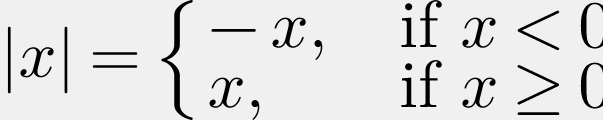
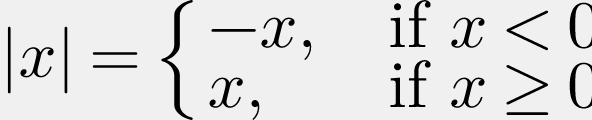
Fix issue #213

diff --git a/CSharpMath.Core.Tests/Display/TypesetterTests.cs b/CSharpMath.Core.Tests/Display/TypesetterTests.cs
@@ -16,11 +16,11 @@ namespace CSharpMath.Core.Tests {
     private static readonly TFont _font = new TFont(20);
     private static readonly TypesettingContext<TFont, TGlyph> _context = BackEnd.TestTypesettingContext.Instance;
 
-    System.Action<IDisplay<TFont, TGlyph>?> TestList(int rangeMax, double ascent, double descent, double width, double x, double y,
+    static System.Action<IDisplay<TFont, TGlyph>?> TestList((int, int) range, double ascent, double descent, double width, double x, double y,
       LinePosition linePos, int indexInParent, params System.Action<IDisplay<TFont, TGlyph>>[] inspectors) => d => {
         var list = Assert.IsType<ListDisplay<TFont, TGlyph>>(d);
         Assert.False(list.HasScript);
-        Assert.Equal(new Range(0, rangeMax), list.Range);
+        Assert.Equal(new Range(range.Item1, range.Item2), list.Range);
         Approximately.Equal(ascent, list.Ascent);
         Approximately.Equal(descent, list.Descent);
         Approximately.Equal(width, list.Width);
@@ -29,9 +29,16 @@ namespace CSharpMath.Core.Tests {
         Assert.Equal(indexInParent, list.IndexInParent);
         Assert.Collection(list.Displays, inspectors);
       };
-    void TestOuter(string latex, int rangeMax, double ascent, double descent, double width,
+    static System.Action<IDisplay<TFont, TGlyph>?> TestList(int rangeMax, double ascent, double descent, double width, double x, double y,
+      LinePosition linePos, int indexInParent, params System.Action<IDisplay<TFont, TGlyph>>[] inspectors) =>
+      TestList((0, rangeMax), ascent, descent, width, x, y, linePos, indexInParent, inspectors);
+    static void TestOuter(string latex, int rangeMax, double ascent, double descent, double width,
         params System.Action<IDisplay<TFont, TGlyph>>[] inspectors) =>
       TestList(rangeMax, ascent, descent, width, 0, 0, LinePosition.Regular, Range.UndefinedInt, inspectors)
+      (ParseLaTeXToDisplay(latex));
+    static void TestOuter(string latex, (int, int) range, double ascent, double descent, double width,
+        params System.Action<IDisplay<TFont, TGlyph>>[] inspectors) =>
+      TestList(range, ascent, descent, width, 0, 0, LinePosition.Regular, Range.UndefinedInt, inspectors)
       (ParseLaTeXToDisplay(latex));
 
     /// <summary>Makes sure that a single codepoint of various atom types have the same measured size.</summary>
@@ -67,18 +74,18 @@ namespace CSharpMath.Core.Tests {
           Assert.Equal(40, line.Width);
         });
     [Theory]
-    [InlineData("%\n1234", "1234")]
-    [InlineData("12.b% comment ", "12.𝑏")]
-    [InlineData("|`% \\notacommand \u2028@/", "|`@/")]
-    public void TestIgnoreComments(string latex, string text) =>
-      TestOuter(latex, 4, 14, 4, 40,
+    [InlineData("%\n1234", "1234", 1, 4)]
+    [InlineData("12.b% comment ", "12.𝑏", 0, 4)]
+    [InlineData("|`% \\notacommand \u2028@/", "|`@/", 0, 5)]
+    public void TestIgnoreComments(string latex, string text, int rangeStart, int rangeEnd) =>
+      TestOuter(latex, (rangeStart, rangeEnd), 14, 4, 40,
         d => {
           var line = Assert.IsType<TextLineDisplay<TFont, TGlyph>>(d);
           Assert.Equal(4, line.Atoms.Count);
           Assert.All(line.Atoms, Assert.IsNotType<Atom.Atoms.Comment>);
           Assert.Equal(text, string.Concat(line.Text));
           Assert.Equal(new PointF(), line.Position);
-          Assert.Equal(new Range(0, 4), line.Range);
+          Assert.Equal(new Range(rangeStart, rangeEnd), line.Range);
           Assert.False(line.HasScript);
 
           Assert.Equal(14, line.Ascent);
@@ -533,5 +540,81 @@ namespace CSharpMath.Core.Tests {
           Assert.Null(line.TextColor);
         }
       );
+    [Fact]
+    public void Issue213() {
+      float charWidth = 10;
+      float mathUnit = 20f / 18f;
+      foreach (var space in new[] { "", "\\," })
+        // 5 mu spacing between = (Relation) and - (Unary Operator, aka Ordinary)
+        TestOuter($"{space}=-1", (space.Length / 2, 3), 14, 4, 3 * charWidth + 5 * mathUnit, // expected: - becomes UnaryOperator then typesetted as Ordinary
+          d => {
+            var textBefore = Assert.IsType<TextLineDisplay<TFont, TGlyph>>(d);
+            Assert.Equal(3 * charWidth + 5 * mathUnit, textBefore.Width);
+            Assert.Equal("=\u22121", string.Concat(textBefore.Text));
+            Assert.Equal(new Range(space.Length / 2, 3), textBefore.Range);
+            Assert.Collection(textBefore.Atoms,
+              a => Assert.Equal("=", Assert.IsType<Atom.Atoms.Relation>(a).Nucleus),
+              a => Assert.Equal("\u2212", Assert.IsType<Atom.Atoms.Ordinary>(a).Nucleus),
+              a => Assert.Equal("1", Assert.IsType<Atom.Atoms.Ordinary>(a).Nucleus));
+          });
+      foreach (var (nonDisplayedAtomThatCreatesNewDisplayLine, additionalWidth) in new[] { (@"\, ", 3 * mathUnit), (@"\displaystyle ", 0) })
+        TestOuter($@"={nonDisplayedAtomThatCreatesNewDisplayLine}-1", 4, 14, 4, 3 * charWidth + 5 * mathUnit + additionalWidth, // issue 213: inserting a space between them should still work
+        eq => {
+          var textBefore = Assert.IsType<TextLineDisplay<TFont, TGlyph>>(eq);
+          Assert.Equal(new PointF(), textBefore.Position);
+          Assert.Equal(charWidth, textBefore.Width);
+          Assert.Equal("=", string.Concat(textBefore.Text));
+          Assert.Equal(new Range(0, 1), textBefore.Range);
+          Assert.Equal("=", Assert.IsType<Atom.Atoms.Relation>(Assert.Single(textBefore.Atoms)).Nucleus);
+        }, m1 => {
+          var textAfter = Assert.IsType<TextLineDisplay<TFont, TGlyph>>(m1);
+          Assert.Equal(new PointF(10 + 5 * mathUnit + additionalWidth, 0), textAfter.Position);
+          Assert.Equal(2 * charWidth, textAfter.Width);
+          Assert.Equal("\u22121", string.Concat(textAfter.Text));
+          Assert.Equal(new Range(2, 2), textAfter.Range);
+          Assert.Collection(textAfter.Atoms,
+            a => Assert.Equal("\u2212", Assert.IsType<Atom.Atoms.Ordinary>(a).Nucleus),
+            a => Assert.Equal("1", Assert.IsType<Atom.Atoms.Ordinary>(a).Nucleus));
+        });
+      TestOuter("=%comment\n-1", 4, 14, 4, 3 * charWidth + 5 * mathUnit, // same should apply to Comment atoms
+        d => {
+          var textBefore = Assert.IsType<TextLineDisplay<TFont, TGlyph>>(d);
+          Assert.Equal(3 * charWidth + 5 * mathUnit, textBefore.Width);
+          Assert.Equal("=\u22121", string.Concat(textBefore.Text));
+          Assert.Equal(new Range(0, 4), textBefore.Range);
+          Assert.Collection(textBefore.Atoms,
+            a => Assert.Equal("=", Assert.IsType<Atom.Atoms.Relation>(a).Nucleus),
+            a => Assert.Equal("\u2212", Assert.IsType<Atom.Atoms.Ordinary>(a).Nucleus),
+            a => Assert.Equal("1", Assert.IsType<Atom.Atoms.Ordinary>(a).Nucleus));
+        });
+    }
+    [Fact]
+    public void SpacingBetweenNumbers() {
+      // Numbers that have non-display atoms between them should not be fused together.
+      foreach (var (nonDisplayedAtomThatCreatesNewDisplayLine, additionalWidth) in new[] { (@"\quad ", 20), (@"\displaystyle ", 0) })
+        TestOuter($"2{nonDisplayedAtomThatCreatesNewDisplayLine}3", 3, 14, 4, 10 + additionalWidth + 10,
+        d => {
+          var line = Assert.IsType<TextLineDisplay<TFont, TGlyph>>(d);
+          Assert.Equal(new PointF(), line.Position);
+          Assert.Equal("2", Assert.IsType<Atom.Atoms.Ordinary>(Assert.Single(line.Atoms)).Nucleus);
+          Assert.Equal("2", string.Concat(line.Text));
+          Assert.Equal(new Range(0, 1), line.Range);
+          Assert.False(line.HasScript);
+          Assert.Equal(14, line.Ascent);
+          Assert.Equal(4, line.Descent);
+          Assert.Equal(10, line.Width);
+        },
+        d => {
+          var line = Assert.IsType<TextLineDisplay<TFont, TGlyph>>(d);
+          Assert.Equal(new PointF(10 + additionalWidth, 0), line.Position);
+          Assert.Equal("3", Assert.IsType<Atom.Atoms.Ordinary>(Assert.Single(line.Atoms)).Nucleus);
+          Assert.Equal("3", string.Concat(line.Text));
+          Assert.Equal(new Range(2, 1), line.Range);
+          Assert.False(line.HasScript);
+          Assert.Equal(14, line.Ascent);
+          Assert.Equal(4, line.Descent);
+          Assert.Equal(10, line.Width);
+        });
+    }
   }
 }

diff --git a/CSharpMath/Atom/MathList.cs b/CSharpMath/Atom/MathList.cs
@@ -53,32 +53,28 @@ namespace CSharpMath.Atom {
         foreach (var atom in Atoms)
           newList.Add(atom.Clone(finalize));
       } else {
+        MathAtom? prevNode = null;
+        int prevDisplayedIndex = -1;
         foreach (var atom in Atoms) {
-          if (atom is Comment) {
-            var newComment = atom.Clone(finalize);
-            newComment.IndexRange = Range.NotFound;
-            newList.Add(newComment);
-            continue;
-          }
-          var prevNode = newList.Last;
           var newNode = atom.Clone(finalize);
-          if (atom.IndexRange == Range.Zero) {
-            int prevIndex =
-              prevNode?.IndexRange.Location + prevNode?.IndexRange.Length ?? 0;
-            newNode.IndexRange = new Range(prevIndex, 1);
-          }
-          switch (prevNode, newNode) {
+          if (newNode.IndexRange == Range.Zero)
+            newNode.IndexRange = new Range(prevNode is { } prev ? prev.IndexRange.Location + prev.IndexRange.Length : 0, 1);
+          switch (prevDisplayedIndex == -1 ? null : newList[prevDisplayedIndex], newNode) {
+            // NOTE: The left pattern does not include UnaryOperator. Just try "1+++2" and "1++++2" in any LaTeX rendering engine.
             case (null or BinaryOperator or Relation or Open or Punctuation or LargeOperator, BinaryOperator b):
               newNode = b.ToUnaryOperator();
               break;
             case (BinaryOperator b, Relation or Punctuation or Close):
-              newList.Last = b.ToUnaryOperator();
+              newList[prevDisplayedIndex] = b.ToUnaryOperator();
               break;
-            case (Number n, Number _) when n.Superscript.IsEmpty() && n.Subscript.IsEmpty():
-              n.Fuse(newNode);
-              continue; // do not add the new node; we fused it instead.
           }
+          if ((prevNode, newNode) is (Number { Superscript.Count: 0, Subscript.Count: 0 } n, Number)) {
+            n.Fuse(newNode);
+            continue; // do not add the new node; we fused it instead.
+          }
+          if (newNode is not (Comment or Space or Style)) prevDisplayedIndex = newList.Count; // Corresponds to atom types that use continue; in Typesetter.CreateLine
           newList.Add(newNode);
+          prevNode = newNode;
         }
       }
       return newList;

diff --git a/CSharpMath/Display/Typesetter.cs b/CSharpMath/Display/Typesetter.cs
@@ -125,6 +125,9 @@ namespace CSharpMath.Display {
     internal static ListDisplay<TFont, TGlyph> CreateLine(
       MathList list, TFont font, TypesettingContext<TFont, TGlyph> context,
       LineStyle style, bool cramped, bool spaced = false) {
+      // NOTE: The 3 atom types that use continue; below, aka [Comment, Space, Style], correspond to non-displayed atom types
+      // in MathList.Clone(true). Update that if-condition and add a test in Issue213() if more such atom types are added.
+      // Otherwise, using these atoms between = (Relation) and - (BinaryOperator) will cause an exception from invalid spacing.
 
       List<MathAtom> _PreprocessMathList() {
         MathAtom? prevAtom = null;
@@ -338,8 +341,7 @@ namespace CSharpMath.Display {
               if (_currentLineIndexRange.Location == Range.UndefinedInt)
                 _currentLineIndexRange = atom.IndexRange;
               else
-                _currentLineIndexRange = new Range(_currentLineIndexRange.Location,
-                  _currentLineIndexRange.Length + atom.IndexRange.Length);
+                _currentLineIndexRange += atom.IndexRange;
               // add the fused atoms
               if (atom.FusedAtoms != null)
                 _currentAtoms.AddRange(atom.FusedAtoms);

diff --git a/CSharpMath.Core.Tests/Atom/MathListTest.cs b/CSharpMath.Core.Tests/Atom/MathListTest.cs
@@ -173,9 +173,8 @@ namespace CSharpMath.Core.Tests {
           CheckAtomNucleusAndRange<Fraction>("", 13, 1),
           CheckAtomNucleusAndRange<LargeOperator>("∫", 14, 1),
           CheckAtomNucleusAndRange<Variable>("θ", 15, 1),
-          // Comments are not given ranges as they won't affect typesetting
-          CheckAtomNucleusAndRange<Comment>(":)", Range.UndefinedInt, Range.UndefinedInt),
-          CheckAtomNucleusAndRange<Punctuation>(",", 16, 1)
+          CheckAtomNucleusAndRange<Comment>(":)", 16, 1),
+          CheckAtomNucleusAndRange<Punctuation>(",", 17, 1)
         );
         Assert.Collection(list.Atoms[2].Superscript,
           CheckAtomNucleusAndRange<Number>("13", 0, 2),

diff --git a/CSharpMath/Atom/Range.cs b/CSharpMath/Atom/Range.cs
@@ -10,7 +10,7 @@ namespace CSharpMath.Atom {
   /// <summary>
   /// Corresponds to a range of <see cref="MathAtom"/>s before finalization.
   /// This value is tracked in finalized <see cref="MathAtom"/>s and <see cref="Display.IDisplay{TFont, TGlyph}"/>s,
-  /// for utilization in CSharpMath.Editor to construct MathListIndexes from <see cref="Display.IDisplay{TFont, TGlyph}"/>s.
+  /// for use in <see cref="Editor.Extensions.IndexForPoint{TFont, TGlyph}(Display.IDisplay{TFont, TGlyph}, Display.FrontEnd.TypesettingContext{TFont, TGlyph}, System.Drawing.PointF)"/>.
   /// </summary>
   public readonly struct Range : IEquatable<Range> {
     public const int UndefinedInt = int.MinValue;

diff --git a/CSharpMath/Display/InterElementSpaces.cs b/CSharpMath/Display/InterElementSpaces.cs
@@ -52,7 +52,7 @@ namespace CSharpMath.Display {
       var multiplier =
         Spaces[leftIndex, rightIndex] switch {
           Invalid => throw new InvalidCodePathException
-                       ($"Invalid space between {left.TypeName} and {right.TypeName}"),
+            ($"Invalid space between {left.TypeName} and {right.TypeName}. The {nameof(Atoms.BinaryOperator)} should have been converted to a {nameof(Atoms.UnaryOperator)} during {nameof(MathList)} {nameof(MathList.Clone)}, then converted to an {nameof(Atoms.Ordinary)} during {nameof(Typesetter)} preparation."),
           None => 0,
           Thin => 3,
           NsThin => style < LineStyle.Script ? 3 : 0,

diff --git a/CSharpMath/Atom/MathAtom.cs b/CSharpMath/Atom/MathAtom.cs
@@ -72,8 +72,7 @@ namespace CSharpMath.Atom {
         FusedAtoms.Add(otherAtom);
       }
       Nucleus += otherAtom.Nucleus;
-      IndexRange = new Range(IndexRange.Location,
-        IndexRange.Length + otherAtom.IndexRange.Length);
+      IndexRange += otherAtom.IndexRange;
       Subscript = otherAtom.Subscript;
       Superscript = otherAtom.Superscript;
     }
